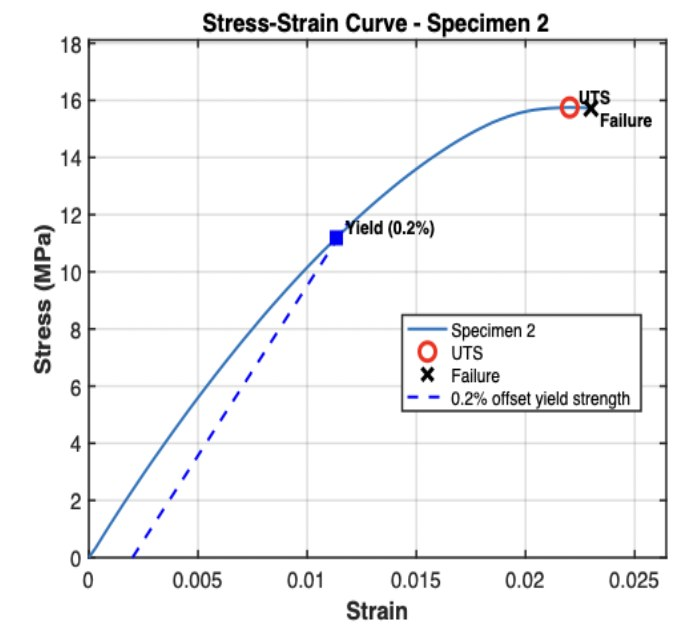
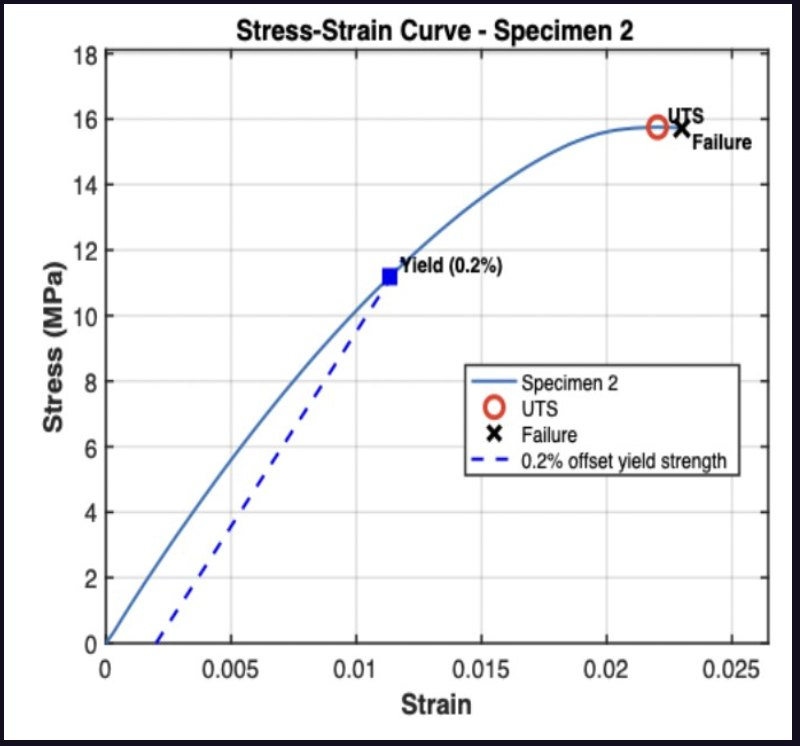
10

diff --git a/index.html b/index.html
@@ -395,7 +395,7 @@
               <a href="#" data-project-open="rfid">
                 <figure class="project-img">
                   <div class="project-item-icon-box"><ion-icon name="eye-outline"></ion-icon></div>
-                  <img src="./assets/images/rfid-1.jpg" alt="RFID Mouse Training System" loading="lazy">
+                  <img src="./assets/images/rfid-2.jpg" alt="RFID Mouse Training System" loading="lazy">
                 </figure>
                 <h3 class="project-title">RFID Mouse Training System</h3>
                 <p class="project-category">Capstone · Controls</p>
@@ -406,7 +406,7 @@
               <a href="#" data-project-open="rcplane">
                 <figure class="project-img">
                   <div class="project-item-icon-box"><ion-icon name="eye-outline"></ion-icon></div>
-                  <img src="./assets/images/rcplane-1.jpg" alt="RC Plane Structures" loading="lazy">
+                  <img src="./assets/images/rcplane-real.jpg" alt="RC Plane Structures" loading="lazy">
                 </figure>
                 <h3 class="project-title">RC Plane Structures</h3>
                 <p class="project-category">CAD Design</p>
@@ -439,7 +439,7 @@
               <a href="#" data-project-open="robot">
                 <figure class="project-img">
                   <div class="project-item-icon-box"><ion-icon name="eye-outline"></ion-icon></div>
-                  <img src="./assets/images/robot-1.jpg" alt="MAE 3 Robot Design" loading="lazy">
+                  <img src="./assets/images/robot-3.jpg" alt="MAE 3 Robot Design" loading="lazy">
                 </figure>
                 <h3 class="project-title">MAE 3 Robot Design</h3>
                 <p class="project-category">CAD Design</p>
@@ -510,7 +510,8 @@
             </ul>
 
             <div class="project-gallery">
-              <figure class="gallery-item gallery-wide"><img src="./assets/images/rfid-1.jpg" alt="RFID mouse training system layout" loading="lazy"><figcaption>System layout — living cage, dual RFID gates, and training cage with reward magazine.</figcaption></figure>
+              <figure class="gallery-item gallery-wide"><img src="./assets/images/rfid-2.jpg" alt="Built RFID mouse training system" loading="lazy"><figcaption>Built system — living and training cages, RFID gates, and central control box.</figcaption></figure>
+              <figure class="gallery-item gallery-wide"><img src="./assets/images/rfid-1.jpg" alt="RFID mouse training system layout diagram" loading="lazy"><figcaption>Labeled layout — living cage, dual RFID gates, and training cage with reward magazine.</figcaption></figure>
             </div>
 
             <div class="project-section">
@@ -702,7 +703,8 @@
             </ul>
 
             <div class="project-gallery">
-              <figure class="gallery-item gallery-wide"><img src="./assets/images/robot-1.jpg" alt="MAE 3 final robot render" loading="lazy"><figcaption>Final robot design.</figcaption></figure>
+              <figure class="gallery-item gallery-wide"><img src="./assets/images/robot-3.jpg" alt="Final built MAE 3 robot" loading="lazy"><figcaption>Final built robot — gear-driven arm and ball-collection mechanism.</figcaption></figure>
+              <figure class="gallery-item gallery-wide"><img src="./assets/images/robot-1.jpg" alt="MAE 3 final robot render" loading="lazy"><figcaption>Fusion 360 design render.</figcaption></figure>
               <figure class="gallery-item gallery-wide"><img src="./assets/images/robot-2.jpg" alt="MAE 3 competition table" loading="lazy"><figcaption>Competition table.</figcaption></figure>
             </div>
 

diff --git a/assets/css/style.css b/assets/css/style.css
@@ -2465,7 +2465,8 @@ body {
 }
 
 .about-photo {
-  flex: 0 0 248px;
+  flex: 0 0 230px;
+  align-self: flex-start;
   border: 4px solid transparent;
   border-radius: 18px;
   background:
@@ -2477,9 +2478,10 @@ body {
 
 .about-photo img {
   width: 100%;
-  height: 100%;
-  object-fit: cover;
+  height: auto;
   display: block;
+  object-fit: cover;
+  object-position: center;
 }
 
 @media (max-width: 768px) {